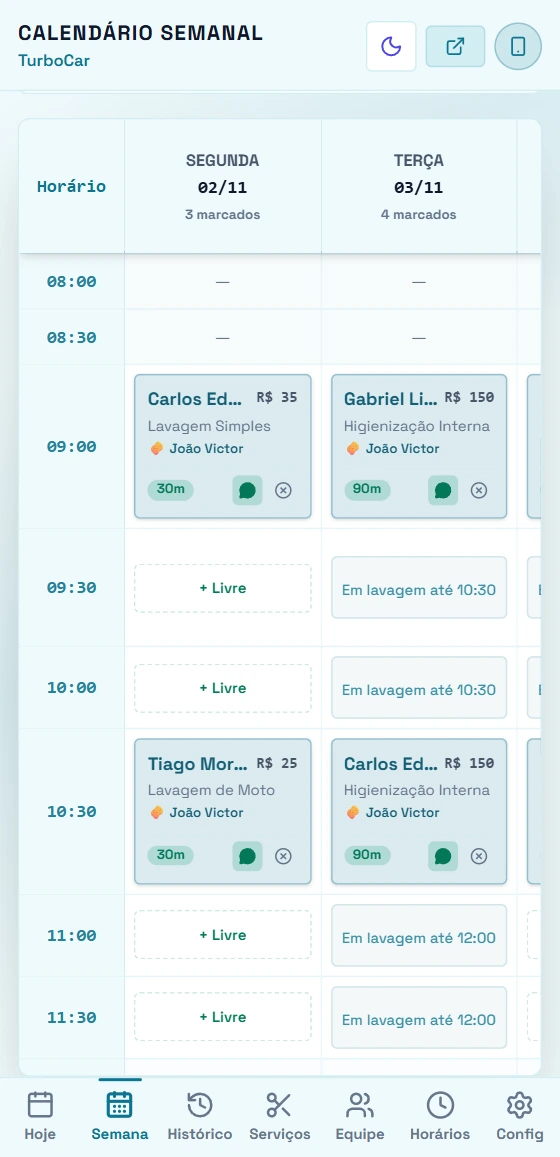
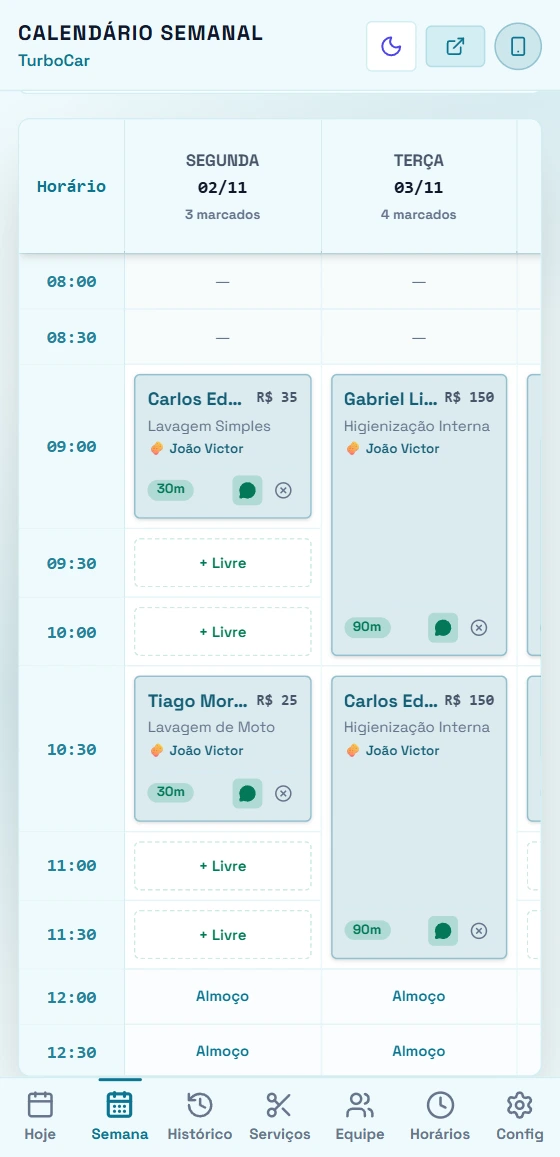
feat: lava-jato vehicle type picker; week grid cards span the whole booking time; tests

diff --git a/src/components/AdminDashboard.tsx b/src/components/AdminDashboard.tsx
@@ -1459,7 +1459,7 @@ export const AdminDashboard: React.FC<AdminDashboardProps> = ({
                     </tr>
                   </thead>
                   <tbody>
-                    {timetableSlots.map((slot) => (
+                    {timetableSlots.map((slot, slotIdx) => (
                       <tr key={slot} className="border-b border-slate-800/60 hover:bg-slate-800/20 transition-colors">
                         {/* Coluna Horário Fixa na Esquerda */}
                         <td className="sticky left-0 z-10 bg-slate-950 w-20 py-2.5 px-2 text-center font-mono font-bold text-xs text-amber-400/90 border-r border-slate-800">
@@ -1501,6 +1501,35 @@ export const AdminDashboard: React.FC<AdminDashboardProps> = ({
                                 return `${String(Math.floor(endM / 60)).padStart(2, '0')}:${String(endM % 60).padStart(2, '0')}`
                               })()
                             : ''
+
+                          // Quantas linhas do horário um atendimento ocupa: o cartão cobre todo o tempo dele (até o almoço,
+                          // o fim do expediente ou outro atendimento)
+                          const toMin = (t: string) => {
+                            const [h, m] = t.split(':').map(Number)
+                            return h * 60 + m
+                          }
+                          const slotBlocked = (sl: string) =>
+                            !d.isOpen ||
+                            d.isBlocked ||
+                            Boolean(
+                              d.wh &&
+                                (sl < d.wh.open_time ||
+                                  sl >= d.wh.close_time ||
+                                  (d.wh.lunch_start && d.wh.lunch_end && sl >= d.wh.lunch_start && sl < d.wh.lunch_end))
+                            )
+                          const spanOf = (a: (typeof d.allAppointments)[number], startIdx: number) => {
+                            if (a.status === 'cancelled') return 1
+                            const end = toMin(a.start_time) + a.total_duration
+                            let rows = 1
+                            for (let j = startIdx + 1; j < timetableSlots.length; j++) {
+                              const sl = timetableSlots[j]
+                              if (toMin(sl) >= end || slotBlocked(sl) || d.allAppointments.some((x) => x.start_time === sl)) break
+                              rows++
+                            }
+                            return rows
+                          }
+                          const aptSpan = apt ? spanOf(apt, slotIdx) : 1
+                          const coveringStart = coveringApt ? timetableSlots.indexOf(coveringApt.start_time) : -1
 
                           if (isDayClosed) {
                             return (
@@ -1546,9 +1575,9 @@ export const AdminDashboard: React.FC<AdminDashboardProps> = ({
                               apt.client_phone && apt.client_phone !== 'Cliente Balcão'
 
                             return (
-                              <td key={d.dateStr} className="p-1.5 border-r border-slate-800/40 align-top">
+                              <td key={d.dateStr} rowSpan={aptSpan} style={aptSpan > 1 ? { height: '1px' } : undefined} className="p-1.5 border-r border-slate-800/40 align-top">
                                 <div
-                                  className={`p-2 rounded-xl text-left transition ${
+                                  className={`p-2 h-full flex flex-col rounded-xl text-left transition ${
                                     isCancelled
                                       ? 'bg-rose-950/30 border border-rose-900/50 text-slate-400 opacity-70'
                                       : 'bg-amber-500/15 border border-amber-500/35 text-white shadow-sm'
@@ -1577,6 +1606,7 @@ export const AdminDashboard: React.FC<AdminDashboardProps> = ({
                                     </span>
                                   )}
 
+                                  <div className="flex-1" />
                                   <div className="flex items-center justify-between gap-1 mt-1.5 pt-1 border-t border-slate-800/60">
                                     <span
                                       className={`text-[9px] px-1.5 py-0.2 rounded-full font-bold ${
@@ -1614,6 +1644,11 @@ export const AdminDashboard: React.FC<AdminDashboardProps> = ({
                                 </div>
                               </td>
                             )
+                          }
+
+                          // A parte de baixo de um atendimento longo já é desenhada pelo cartão dele (rowSpan)
+                          if (coveringApt && coveringStart >= 0 && slotIdx < coveringStart + spanOf(coveringApt, coveringStart)) {
+                            return null
                           }
 
                           if (isCovered) {

diff --git a/src/components/BookingClientView.tsx b/src/components/BookingClientView.tsx
@@ -99,6 +99,9 @@ export const BookingClientView: React.FC<BookingClientViewProps> = ({
   const [clientName, setClientName] = useState('')
   const [clientPhone, setClientPhone] = useState('')
   const [clientNotes, setClientNotes] = useState('')
+  // Lava-jato: o cliente escolhe o tipo do veículo (passeio, 4x4, caminhão, moto…); vai no agendamento junto com o modelo
+  const [vehicleType, setVehicleType] = useState('')
+  const bookingNotes = terms.vehicleTypes.length ? [vehicleType, clientNotes.trim()].filter(Boolean).join(' · ') : clientNotes.trim()
   const [reminderPreference, setReminderPreference] = useState<'10min' | '30min' | '1hour'>('30min')
   const [confirmedBooking, setConfirmedBooking] = useState<any>(null)
 
@@ -232,6 +235,10 @@ export const BookingClientView: React.FC<BookingClientViewProps> = ({
       alert(INVALID_MOBILE_MESSAGE)
       return
     }
+    if (terms.vehicleTypes.length && !vehicleType) {
+      alert('Escolha o tipo do veículo.')
+      return
+    }
     if (submitting) return
 
     const chosenBarber = activeBarbers.find((b) => b.id === selectedBarberId)
@@ -253,7 +260,7 @@ export const BookingClientView: React.FC<BookingClientViewProps> = ({
           clientPhone,
           date: selectedDate,
           start: selectedTime,
-          notes: clientNotes.trim() || undefined,
+          notes: bookingNotes || undefined,
           reminder: reminderPreference
         })
       }
@@ -285,7 +292,7 @@ export const BookingClientView: React.FC<BookingClientViewProps> = ({
       start_time: selectedTime,
       total_price: totalPrice,
       total_duration: totalDuration,
-      notes: clientNotes
+      notes: bookingNotes
     })
     refreshBusy()
     setStep('success')
@@ -909,6 +916,29 @@ export const BookingClientView: React.FC<BookingClientViewProps> = ({
                   Sua preferência fica salva no agendamento. Os lembretes automáticos ainda estão sendo preparados.
                 </span>
               </div>
+
+              {terms.vehicleTypes.length > 0 && (
+                <div>
+                  <p className="block text-xs font-bold text-slate-300 mb-1.5">Tipo do veículo *</p>
+                  <div className="grid grid-cols-2 gap-2">
+                    {terms.vehicleTypes.map((type) => (
+                      <button
+                        key={type}
+                        type="button"
+                        aria-pressed={vehicleType === type}
+                        onClick={() => setVehicleType(type)}
+                        className={`px-3 py-2.5 rounded-xl border text-xs font-bold text-left transition cursor-pointer ${
+                          vehicleType === type
+                            ? 'bg-amber-500 border-amber-500 text-slate-950'
+                            : 'bg-slate-900 border-slate-800 text-slate-300 hover:border-amber-500/60'
+                        }`}
+                      >
+                        {type}
+                      </button>
+                    ))}
+                  </div>
+                </div>
+              )}
 
               <div>
                 <label className="block text-xs font-bold text-slate-300 mb-1" htmlFor="bkg-926">

diff --git a/src/lib/terms.ts b/src/lib/terms.ts
@@ -21,6 +21,7 @@ export function getTerms(type?: BusinessType) {
       anyProfessional: 'Qualquer funcionário',
       defaultSlogan: 'Seu carro limpo e protegido, sem fila.',
       serviceExample: 'Ex: Lavagem simples, Lavagem completa, Polimento...',
+      vehicleTypes: ['Carro de passeio', 'SUV / 4x4', 'Caminhonete', 'Caminhão', 'Moto'],
       notesLabel: 'Modelo do veículo (opcional)',
       notesPlaceholder: 'Ex: Onix, Hilux, CG 160',
       notesEmoji: '🚗',
@@ -44,6 +45,7 @@ export function getTerms(type?: BusinessType) {
     anyProfessional: salon ? 'Qualquer profissional' : 'Qualquer barbeiro',
     defaultSlogan: salon ? 'Beleza e cuidado do seu jeito.' : 'Tradição, estilo e o melhor corte da região.',
     serviceExample: salon ? 'Ex: Corte feminino, Escova, Manicure...' : 'Ex: Corte degradê, Barba completa...',
+    vehicleTypes: [] as string[],
     notesLabel: `Observações para o ${salon ? 'profissional' : 'barbeiro'} (opcional)`,
     notesPlaceholder: 'Ex: Primeira vez aqui, alguma preferência?',
     notesEmoji: '📝',
